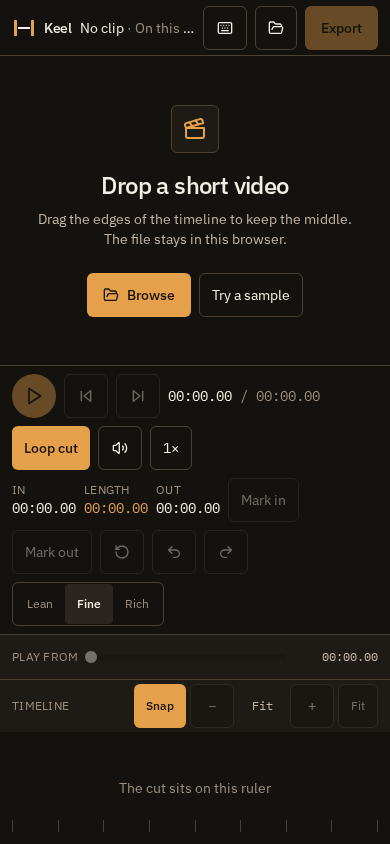
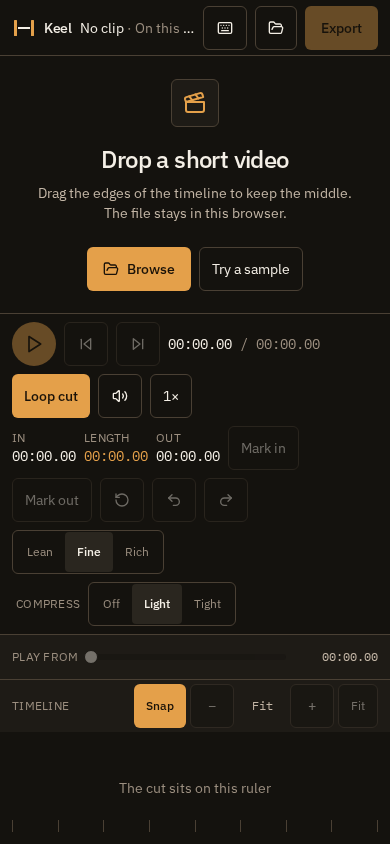
Add export compression levels with estimated file size.

diff --git a/src/lib/export-clip.ts b/src/lib/export-clip.ts
@@ -1,12 +1,63 @@
 import { trimFilename } from "@/lib/time";
 
 export type ExportQuality = "lean" | "fine" | "rich";
+export type Compression = "off" | "light" | "tight";
 
-const VIDEO_QUALITY = {
-  lean: "low",
-  fine: "medium",
-  rich: "high",
-} as const;
+const QUALITY_VIDEO_BPS: Record<ExportQuality, number> = {
+  lean: 2_000_000,
+  fine: 4_500_000,
+  rich: 9_000_000,
+};
+
+const COMPRESSION_FACTOR: Record<Compression, number> = {
+  off: 1,
+  light: 0.45,
+  tight: 0.18,
+};
+
+const ENCODER_LADDER = ["very-low", "low", "medium", "high", "very-high"] as const;
+
+export function encoderQuality(quality: ExportQuality, compression: Compression): (typeof ENCODER_LADDER)[number] {
+  const base = quality === "lean" ? 1 : quality === "rich" ? 3 : 2;
+  const shift = compression === "tight" ? -2 : compression === "light" ? -1 : 0;
+  return ENCODER_LADDER[Math.max(0, Math.min(ENCODER_LADDER.length - 1, base + shift))];
+}
+
+export function exportRates(
+  quality: ExportQuality,
+  compression: Compression,
+  width: number,
+  height: number,
+): { video: number; audio: number } {
+  const w = width >= 16 ? width : 1280;
+  const h = height >= 16 ? height : 720;
+  const scale = Math.min(3, Math.max(0.35, (w * h) / (1280 * 720)));
+  const video = Math.max(120_000, Math.round(QUALITY_VIDEO_BPS[quality] * COMPRESSION_FACTOR[compression] * scale));
+  return { video, audio: 128_000 };
+}
+
+export function estimateExportBytes(
+  quality: ExportQuality,
+  compression: Compression,
+  seconds: number,
+  width: number,
+  height: number,
+): number {
+  if (!(seconds > 0)) return 0;
+  const rates = exportRates(quality, compression, width, height);
+  return Math.round(((rates.video + rates.audio) * seconds) / 8);
+}
+
+export function formatBytes(bytes: number): string {
+  if (!Number.isFinite(bytes) || bytes < 1) return "—";
+  if (bytes < 1024) return `${Math.round(bytes)} B`;
+  if (bytes < 1024 * 1024) return `${Math.max(1, Math.round(bytes / 1024))} KB`;
+  const mb = bytes / (1024 * 1024);
+  if (mb < 10) return `${mb.toFixed(1)} MB`;
+  if (mb < 1024) return `${Math.round(mb)} MB`;
+  const gb = mb / 1024;
+  return gb < 10 ? `${gb.toFixed(1)} GB` : `${Math.round(gb)} GB`;
+}
 
 type CaptureVideo = HTMLVideoElement & {
   captureStream?: () => MediaStream;
@@ -19,21 +70,25 @@ export async function exportCut(options: {
   start: number;
   end: number;
   quality: ExportQuality;
+  compression: Compression;
+  width: number;
+  height: number;
   video: HTMLVideoElement | null;
   signal: AbortSignal;
   onProgress: (progress: number, label: string) => void;
 }): Promise<{ blob: Blob; filename: string }> {
-  const { file, start, end, quality, video, signal, onProgress } = options;
+  const { file, start, end, quality, compression, width, height, video, signal, onProgress } = options;
+  const rates = exportRates(quality, compression, width, height);
   if (signal.aborted) throw abortError();
   try {
     onProgress(0, "Encoding cut");
-    const blob = await encodeWithMediabunny(file, start, end, quality, signal, onProgress);
+    const blob = await encodeWithMediabunny(file, start, end, quality, compression, signal, onProgress);
     return { blob, filename: trimFilename(options.filename) };
   } catch (error) {
     if (signal.aborted || isAbort(error)) throw abortError();
     if (!video || !captureOf(video)) throw error instanceof Error ? error : new Error("Export failed");
     onProgress(0, "Recording cut");
-    const blob = await recordSelection(video, start, end, signal, (progress) => onProgress(progress, "Recording cut"));
+    const blob = await recordSelection(video, start, end, rates, signal, (progress) => onProgress(progress, "Recording cut"));
     const type = blob.type || "video/webm";
     const ext = type.includes("mp4") ? "mp4" : "webm";
     const base = trimFilename(options.filename).replace(/\.mp4$/, "");
@@ -46,6 +101,7 @@ async function encodeWithMediabunny(
   start: number,
   end: number,
   quality: ExportQuality,
+  compression: Compression,
   signal: AbortSignal,
   onProgress: (progress: number, label: string) => void,
 ): Promise<Blob> {
@@ -63,7 +119,6 @@ async function encodeWithMediabunny(
   });
 
   try {
-    const level = VIDEO_QUALITY[quality];
     const conversion = await Conversion.init({
       input,
       output,
@@ -72,7 +127,7 @@ async function encodeWithMediabunny(
       showWarnings: false,
       copy: false,
       video: {
-        quality: new Quality(level),
+        quality: new Quality(encoderQuality(quality, compression)),
         hardwareAcceleration: "prefer-hardware",
         keyFrameInterval: 2,
       },
@@ -112,6 +167,7 @@ function recordSelection(
   video: HTMLVideoElement,
   start: number,
   end: number,
+  rates: { video: number; audio: number },
   signal: AbortSignal,
   onProgress: (progress: number) => void,
 ): Promise<Blob> {
@@ -121,7 +177,7 @@ function recordSelection(
   const mime = pickMime();
   const recorder = new MediaRecorder(
     stream,
-    mime ? { mimeType: mime, videoBitsPerSecond: 4_000_000, audioBitsPerSecond: 128_000 } : undefined,
+    mime ? { mimeType: mime, videoBitsPerSecond: rates.video, audioBitsPerSecond: rates.audio } : undefined,
   );
   const chunks: Blob[] = [];
   recorder.ondataavailable = (event) => {

diff --git a/src/components/editor/Editor.tsx b/src/components/editor/Editor.tsx
@@ -14,7 +14,7 @@ import {
   VolumeX,
   X,
 } from "lucide-react";
-import { downloadBlob, exportCut, type ExportQuality } from "@/lib/export-clip";
+import { downloadBlob, estimateExportBytes, exportCut, formatBytes, type Compression, type ExportQuality } from "@/lib/export-clip";
 import { createSampleClip } from "@/lib/sample-clip";
 import { extractThumbs } from "@/lib/thumbs";
 import { FRAME, clamp, clampTrim, formatClock, nearly, type Trim } from "@/lib/time";
@@ -38,6 +38,7 @@ type Prefs = {
   muted: boolean;
   volume: number;
   quality: ExportQuality;
+  compression: Compression;
   snap: boolean;
 };
 
@@ -50,6 +51,7 @@ const DEFAULT_PREFS: Prefs = {
   muted: false,
   volume: 1,
   quality: "fine",
+  compression: "light",
   snap: true,
 };
 
@@ -121,6 +123,7 @@ export function Editor() {
         muted: typeof parsed.muted === "boolean" ? parsed.muted : prev.muted,
         volume: typeof parsed.volume === "number" ? clamp(parsed.volume, 0, 1) : prev.volume,
         quality: parsed.quality === "lean" || parsed.quality === "fine" || parsed.quality === "rich" ? parsed.quality : prev.quality,
+        compression: parsed.compression === "off" || parsed.compression === "light" || parsed.compression === "tight" ? parsed.compression : prev.compression,
         snap: typeof parsed.snap === "boolean" ? parsed.snap : prev.snap,
       }));
     } catch {
@@ -559,12 +562,15 @@ export function Editor() {
         start: trimRef.current.in,
         end: trimRef.current.out,
         quality: prefs.quality,
+        compression: prefs.compression,
+        width: clip.width,
+        height: clip.height,
         video: videoRef.current,
         signal: ctrl.signal,
         onProgress: (progress, label) => setJob({ progress, label }),
       });
       downloadBlob(result.blob, result.filename);
-      setBanner({ tone: "info", text: `Downloaded ${result.filename}` });
+      setBanner({ tone: "info", text: `Downloaded ${result.filename} · ${formatBytes(result.blob.size)}` });
     } catch (error) {
       if (isAbort(error)) setBanner({ tone: "info", text: "Export canceled" });
       else setBanner({ tone: "error", text: error instanceof Error ? error.message : "Export failed" });
@@ -744,7 +750,7 @@ export function Editor() {
           <button type="button" className={iconBtn} onClick={redo} disabled={!canRedo} aria-label="Redo trim">
             <Redo2 className="size-4" />
           </button>
-          <div className="flex h-11 items-center rounded-md border border-line p-0.5">
+          <div className="flex h-11 items-center rounded-md border border-line p-0.5" role="group" aria-label="Picture quality">
             {(["lean", "fine", "rich"] as const).map((level) => (
               <button
                 key={level}
@@ -760,6 +766,31 @@ export function Editor() {
                 {level}
               </button>
             ))}
+          </div>
+          <div className="flex h-11 items-center gap-1">
+            <span className="px-1 text-xs tracking-wide text-faint uppercase">Compress</span>
+            <div className="flex h-11 items-center rounded-md border border-line p-0.5" role="group" aria-label="Compression">
+              {(["off", "light", "tight"] as const).map((level) => {
+                const bytes = estimateExportBytes(prefs.quality, level, span, clip?.width ?? 0, clip?.height ?? 0);
+                const on = prefs.compression === level;
+                return (
+                  <button
+                    key={level}
+                    type="button"
+                    aria-pressed={on}
+                    className={on ? "h-10 rounded-sm bg-raised px-3 text-xs font-medium text-fg" : "h-10 rounded-sm px-3 text-xs text-faint"}
+                    onClick={() => setPrefs((prev) => ({ ...prev, compression: level }))}
+                  >
+                    <span className="capitalize">{level}</span>
+                    {bytes > 0 ? (
+                      <span className={on ? "ml-1.5 font-mono text-accent tabular-nums" : "ml-1.5 font-mono tabular-nums"}>
+                        ~{formatBytes(bytes)}
+                      </span>
+                    ) : null}
+                  </button>
+                );
+              })}
+            </div>
           </div>
         </div>
       </div>
@@ -842,7 +873,7 @@ export function Editor() {
               ))}
             </dl>
             <p className="border-t border-line px-4 py-3 text-xs text-faint">
-              Drag either edge to trim. The frame at that cut pops up above the handle. The bar above the filmstrip jumps there and plays. Drag the kept region to slide the cut. Scroll to zoom.
+              Drag either edge to trim. The frame at that cut pops up above the handle. The bar above the filmstrip jumps there and plays. Compress shows the estimated size of this cut. Drag the kept region to slide the cut. Scroll to zoom.
             </p>
           </div>
         </div>
